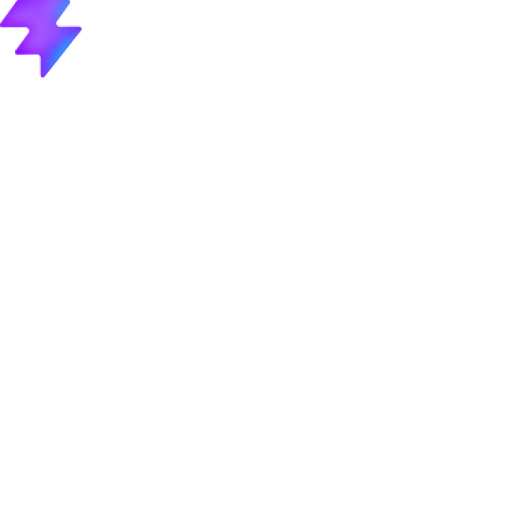
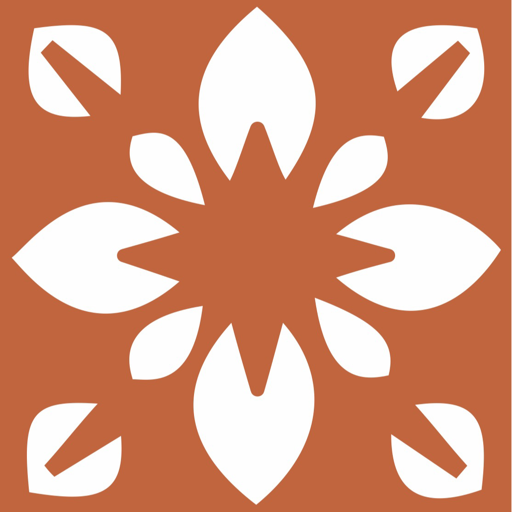
feat(бренд): логотип Искенди в фавикон, сайдбар и экран входа
- нарезан набор иконок из логотипа (favicon/apple-touch/pwa) вместо vite-дефолта
- лого в Sidebar рядом с «Искенди Analytics»
- лого на экране входа
- удалён vite favicon.svg, добавлен public/logo.png (полноразмерный)

diff --git a/frontend/src/components/Sidebar.tsx b/frontend/src/components/Sidebar.tsx
@@ -50,10 +50,26 @@ export function Sidebar() {
           top: 0,
         }}
       >
-        <div style={{ padding: "0 12px 20px", fontSize: 18, fontWeight: 700, color: "var(--text)" }}>
-          Искенди
-          <div style={{ fontSize: 11, fontWeight: 400, color: "var(--muted)", marginTop: 2 }}>
-            Analytics
+        <div
+          style={{
+            display: "flex",
+            alignItems: "center",
+            gap: 10,
+            padding: "0 12px 20px",
+          }}
+        >
+          <img
+            src="/favicon.png"
+            alt="Искенди"
+            width={36}
+            height={36}
+            style={{ borderRadius: 8, flexShrink: 0 }}
+          />
+          <div style={{ fontSize: 18, fontWeight: 700, color: "var(--text)", lineHeight: 1.1 }}>
+            Искенди
+            <div style={{ fontSize: 11, fontWeight: 400, color: "var(--muted)", marginTop: 2 }}>
+              Analytics
+            </div>
           </div>
         </div>
         <nav style={{ display: "flex", flexDirection: "column", gap: 4 }}>

diff --git a/frontend/src/pages/Login.tsx b/frontend/src/pages/Login.tsx
@@ -44,9 +44,18 @@ export function Login() {
           border: "1px solid var(--grid)", display: "flex", flexDirection: "column", gap: 14,
         }}
       >
-        <div>
-          <div style={{ fontSize: 20, fontWeight: 700, color: "var(--text)" }}>Искенди</div>
-          <div style={{ fontSize: 12, color: "var(--muted)", marginTop: 2 }}>Analytics · вход</div>
+        <div style={{ display: "flex", alignItems: "center", gap: 12 }}>
+          <img
+            src="/favicon.png"
+            alt="Искенди"
+            width={44}
+            height={44}
+            style={{ borderRadius: 10, flexShrink: 0 }}
+          />
+          <div>
+            <div style={{ fontSize: 20, fontWeight: 700, color: "var(--text)" }}>Искенди</div>
+            <div style={{ fontSize: 12, color: "var(--muted)", marginTop: 2 }}>Analytics · вход</div>
+          </div>
         </div>
 
         <label style={{ display: "flex", flexDirection: "column", gap: 6, fontSize: 12, color: "var(--muted)" }}>

diff --git a/frontend/index.html b/frontend/index.html
@@ -2,7 +2,8 @@
 <html lang="ru">
   <head>
     <meta charset="UTF-8" />
-    <link rel="icon" type="image/svg+xml" href="/favicon.svg" />
+    <link rel="icon" type="image/png" sizes="32x32" href="/favicon-32.png" />
+    <link rel="icon" type="image/png" sizes="96x96" href="/favicon.png" />
     <meta name="viewport" content="width=device-width, initial-scale=1.0, viewport-fit=cover" />
     <title>Искенди — аналитика</title>
 